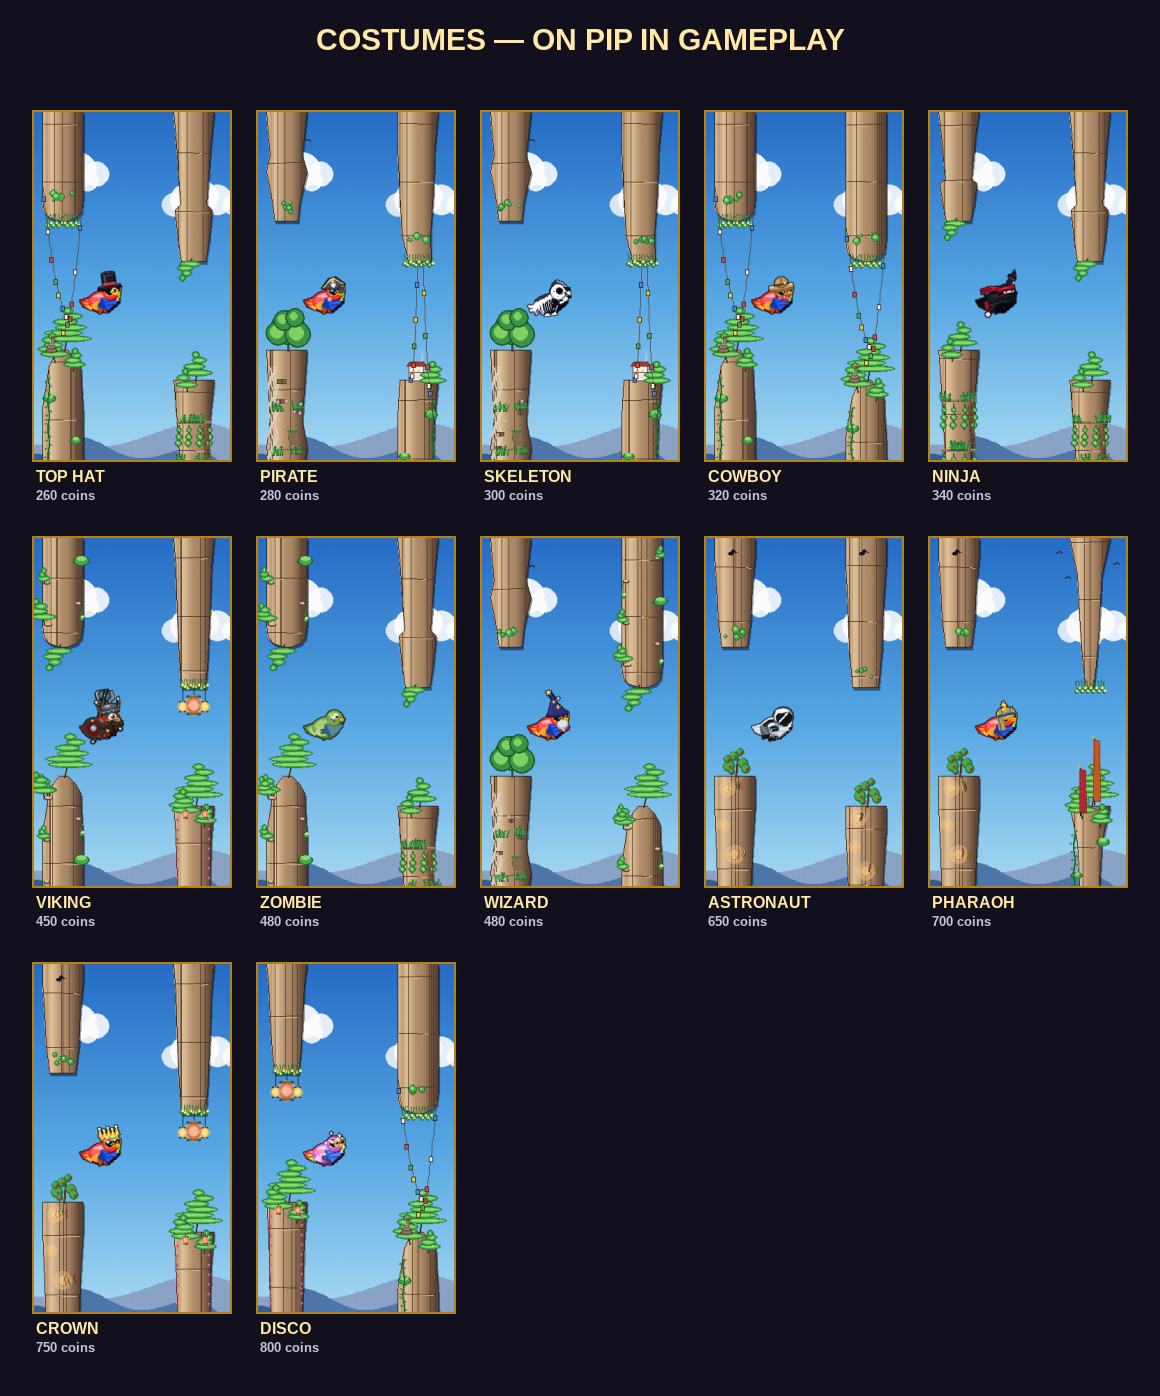
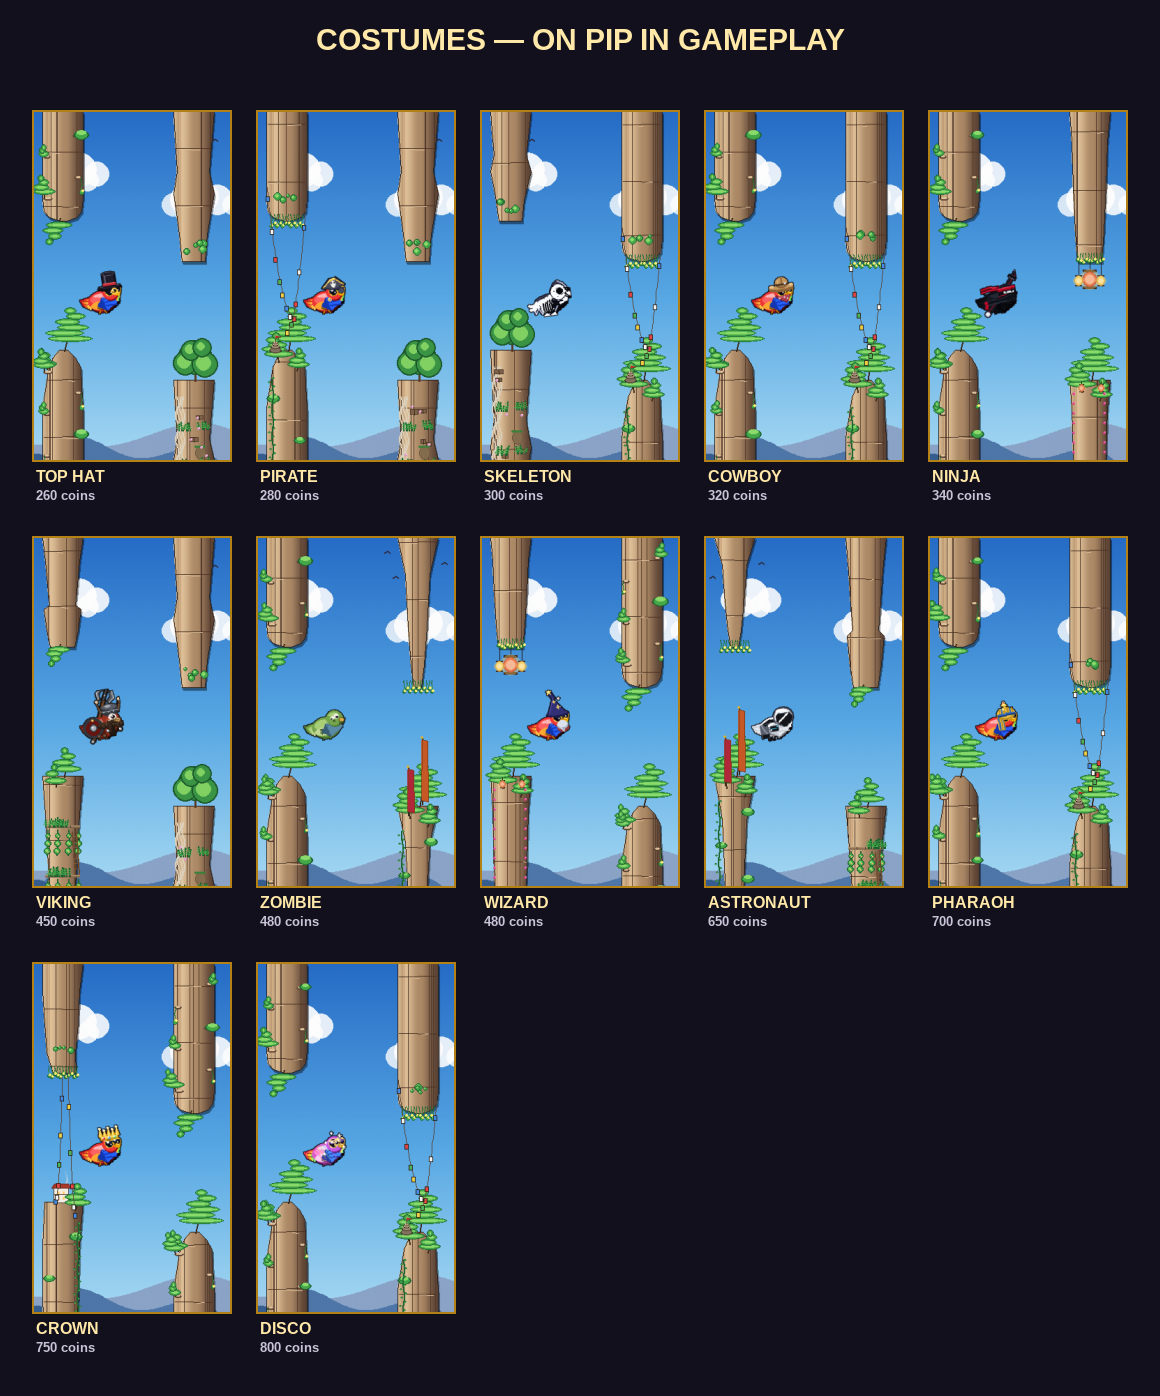
Mantis shrimp: ship BIG EXPRESSIVE cartoon-shrimp face + much-smaller clubs
Replace the unclear periscope jewel-eye face with a clear cartoon-shrimp face
(big googly eyes + trailing antennae + a smile), and shrink the raptorial clubs
to a tidy minor detail (lead 8->4, rear 6->3, arms slimmed, punch pulled in) so
the face is the focus. The punch-with-the-flap gag is preserved. Same id.

diff --git a/game/animal_mantis_shrimp.py b/game/animal_mantis_shrimp.py
@@ -12,21 +12,19 @@ primary production build so it lifts straight into game/animal_skins.py:
     cache, each house-outlined for the day-sky contour).
   * `BUILDERS = {"skin_mantis_shrimp": get_mantis_shrimp}`.
 
-THE FLAP IS A STRIKE: the raptorial clubs cock BACK on the down-pose
+THE FLAP IS A STRIKE: the small raptorial clubs cock BACK on the down-pose
 (_WING_ANGLES starts at 50) and PUNCH FORWARD on the up-pose (ends at -40).
-`_strike()` maps a wing angle to a 0..1 punch. The lead club crosses PAST the
-snout line on the punch and the body recoils a touch, so the haymaker reads at
-40px in motion.
+`_strike()` maps a wing angle to a 0..1 punch and the body recoils a touch — the
+punch is a tidy secondary detail so the FACE stays the focus.
 
-Colour is STRUCTURE, not noise: a teal duotone shield carries two bold orange
-load-bearing stripes plus one thin banded mid-stripe as a third accent, and
-iridescent eye-jewels — controlled technicolor that never breaks the duotone
-read. The night biome borrows a faint glow on ONLY the eye-jewels and
-club-tips so the bruiser stays bold on dark skies without lighting the body.
+The FACE is a clear cartoon shrimp: a big-eyed googly face + two long trailing
+antennae (the unmistakable "this is a shrimp" tell) over a teal duotone shield
+that carries two bold orange load-bearing stripes plus one thin banded
+mid-stripe as a third accent. The night biome borrows a faint glow on ONLY the
+club-tips so the silhouette stays bold on dark skies without lighting the body.
 
 North star: "a skin lives or dies at 40px in motion." The 40px tell is the
-giant orange double-fist snapping past the snout, the teal/orange striped
-shield, and the twin jewel periscopes.
+friendly googly-eyed face + antennae over the teal/orange striped shield.
 """
 import math
 import pygame
@@ -152,12 +150,12 @@ def _club_arm(surf, shoulder, elbow, fist, *, club_col, club_hi, arm_col,
     The striking face points along the shoulder→fist vector so the club reads
     as a hammer thrown in the punch direction, not a static ball. Each fist
     keeps a dark heel rim so the twin fists never visually merge."""
-    # Segmented limb: dark-rimmed so the arm separates from the shield.
-    pygame.draw.line(surf, _RIM, shoulder, elbow, 5)
-    pygame.draw.line(surf, arm_col, shoulder, elbow, 3)
-    pygame.draw.line(surf, _RIM, elbow, fist, 5)
-    pygame.draw.line(surf, arm_col, elbow, fist, 3)
-    pygame.draw.circle(surf, arm_col, elbow, 2)
+    # Thin segmented limb so the small clubs read as a tidy minor detail and the
+    # face keeps focus.
+    pygame.draw.line(surf, _RIM, shoulder, elbow, 3)
+    pygame.draw.line(surf, arm_col, shoulder, elbow, 1)
+    pygame.draw.line(surf, _RIM, elbow, fist, 3)
+    pygame.draw.line(surf, arm_col, elbow, fist, 1)
 
     # The dactyl club — a chunky rounded fist with a dark heel rim so the two
     # fists keep a 1px dark separation even when they sit close in depth.
@@ -236,7 +234,7 @@ def _build(wing_angle_deg, *, glow):
     far_fist  = _lerp_pt((bcx + 4, bcy + 20), (bcx + 21, bcy + 10), s)
     _club_arm(surf, far_shoulder, far_elbow, far_fist,
               club_col=_CLUB_D, club_hi=_CLUB, arm_col=_CARA_D,
-              club_r=6, lead=False, glow=glow)
+              club_r=3, lead=False, glow=glow)
 
     # Segmented abdomen + orange tail-fan.
     _segmented_tail(surf, bcx - 7, bcy + 1, count=3, span=18)
@@ -267,28 +265,41 @@ def _build(wing_angle_deg, *, glow):
     _aaellipse(surf, _CARA, (hcx - 1, hcy), 10, 9)
     _aaellipse(surf, _CARA_H, (hcx - 2, hcy - 3), 4, 2)
 
-    # ── HERO: long widely-spread eye-stalks, thick (3px core + dark rim) so the
-    #    twin periscopes read on both skies; jewel tip 2× the stalk width.
-    for sgn, ex in ((-1, hcx - 6), (1, hcx + 7)):
-        base = (hcx + sgn * 3, hcy - 3)
-        tip = (ex + sgn * 4, CROWN_Y - 6 + rcy)
-        pygame.draw.line(surf, _STALK_RIM, base, tip, 5)   # dark outline
-        pygame.draw.line(surf, _STALK, base, tip, 3)        # 3px stalk core
-        _jewel_eye(surf, tip[0], tip[1], 6, glow=glow)      # jewel ≈ 2× stalk
+    # ── FACE: a clear cartoon-shrimp read — two long trailing ANTENNAE (the
+    #    "this is a shrimp" tell the periscope-only face lacked) + big expressive
+    #    googly eyes + a friendly smile.
+    for pts in (
+        [(hcx + 5, hcy - 2), (hcx, CROWN_Y + rcy),
+         (hcx - 9, CROWN_Y - 3 + rcy), (hcx - 16, CROWN_Y - 7 + rcy)],
+        [(hcx + 6, hcy), (hcx + 2, CROWN_Y + 5 + rcy),
+         (hcx - 7, CROWN_Y + 3 + rcy), (hcx - 14, CROWN_Y + 1 + rcy)],
+    ):
+        pygame.draw.lines(surf, _STALK_RIM, False, pts, 2)
+        pygame.draw.lines(surf, _BAND, False, pts[:-1], 1)   # warm-tipped feeler
+    for sgn, tx in ((-1, hcx - 4), (1, hcx + 5)):
+        base = (hcx + sgn * 2, hcy - 2)
+        tip = (tx, hcy - 7 + rcy)
+        pygame.draw.line(surf, _STALK_RIM, base, tip, 4)
+        pygame.draw.line(surf, _STALK, base, tip, 2)
+        pygame.draw.circle(surf, _STALK_RIM, tip, 7)
+        pygame.draw.circle(surf, (255, 255, 255), tip, 6)
+        pygame.draw.circle(surf, (32, 26, 44), (tip[0] + 1, tip[1] + 1), 4)
+        pygame.draw.circle(surf, (255, 255, 255), (tip[0] - 1, tip[1] - 1), 2)
+    pygame.draw.arc(surf, _STALK_RIM, (hcx - 3, hcy + 3, 10, 8), 3.5, 6.0, 2)
+    pygame.draw.line(surf, _STALK_RIM, (hcx - 2, hcy + 5), (hcx + 5, hcy + 5), 1)
 
     # ── HERO: OVERSIZED lead club — the haymaker, drawn IN FRONT of head+shield.
     #    Cocked (s=0): pulled low+forward, clear of the face. Punched (s=1): the
     #    fist drives UP + FORWARD to land OVER the snout — the orange mass clearly
     #    overlaps the snout vector (hcx,hcy → eye-jewels), reading as a punch
     #    thrown past the face, never a leg dangling under the gut.
-    near_elbow = _lerp_pt((bcx + 13, bcy + 6), (hcx + 5, hcy + 0), s)
-    near_fist  = _lerp_pt((bcx + 19, bcy + 11), (hcx + 15, hcy - 10), s)
-    # Tight halo when cocked (lead+rear fists sit close, a wide bloom would
-    # merge them); widen toward the punch where the lead fist flies clear.
-    lead_glow_r = int(round(3 + s * 2))
+    near_elbow = _lerp_pt((bcx + 12, bcy + 7), (hcx + 3, hcy + 2), s)
+    near_fist  = _lerp_pt((bcx + 16, bcy + 11), (hcx + 10, hcy - 3), s)
+    # Tight halo when cocked; widen a touch toward the punch.
+    lead_glow_r = int(round(1 + s * 2))
     _club_arm(surf, sh, near_elbow, near_fist,
               club_col=_CLUB, club_hi=_CLUB_H, arm_col=_CARA_D,
-              club_r=8, lead=True, glow=glow, glow_r=lead_glow_r)
+              club_r=4, lead=True, glow=glow, glow_r=lead_glow_r)
     return surf
 
 
